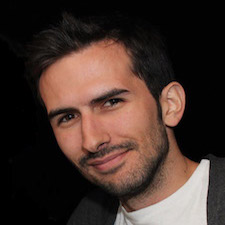
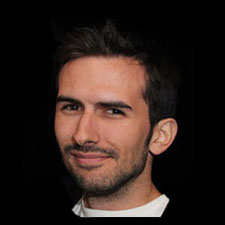
final version

diff --git a/index.html b/index.html
@@ -93,7 +93,7 @@
             <div class="row">
                 <div class="col-lg-12 text-center">
                     <h2 class="section-heading">Services</h2>
-                    <h3 class="section-subheading text-muted">zoph.io vous accompagne dans tous vos projets d'infrastructure Cloud, vous trouvez ci-dessous le détail des services proposés :</h3>
+                    <h3 class="section-subheading text-muted">zoph.io vous accompagne dans tous vos projets d'infrastructure Cloud</h3>
                 </div>
             </div>
             <div class="row text-center">
@@ -103,7 +103,8 @@
                         <i class="fa fa-cloud fa-stack-1x fa-inverse"></i>
                     </span>
                     <h4 class="service-heading">Architecture</h4>
-                    <p class="text-muted">Design et implémentation d'Architecture Cloud. Spécialisé sur les technologies Amazon Web Services (AWS) (Certifié : AWS Solutions Architect)</p>
+                    <p class="text-muted">Design et implémentation d'Architecture Cloud. Spécialisé sur les technologies Amazon Web Services</p>
+                    <a href="https://www.certmetrics.com/amazon/public/badge.aspx?i=1&t=c&d=2017-03-06&ci=AWS00230915" target="_blank"><img src="img/aws-badge-small.png" alt="AWS Badge"></a>
                 </div>
                 <div class="col-md-4">
                     <span class="fa-stack fa-4x">
@@ -119,7 +120,7 @@
                         <i class="fa fa-rocket fa-stack-1x fa-inverse"></i>
                     </span>
                     <h4 class="service-heading">Conseil et Stratégie</h4>
-                    <p class="text-muted">Startup, TPE, PME zoph.io vous guide dans toutes les étapes de vos projets et réflexions d'infrastructure Cloud</p>
+                    <p class="text-muted">Startups, TPE, PME, nous vous guidons dans toutes les étapes de vos projets et réflexions d'infrastructure Cloud</p>
                 </div>
             </div>
               <div class="row text-center">
@@ -129,7 +130,7 @@
                         <i class="fa fa-wifi fa-stack-1x fa-inverse"></i>
                     </span>
                     <h4 class="service-heading">Réseaux</h4>
-                    <p class="text-muted">Mise en œuvre de solutions Réseaux : Wifi/3G/4G, réseau d'entreprise (LAN/WAN/SDWAN), refonte réseaux</p>
+                    <p class="text-muted">Mise en œuvre de solutions réseaux<br />Wifi, 4G, LAN/WAN, VPN</p>
                 </div>
                 <div class="col-md-4">
                     <span class="fa-stack fa-4x">
@@ -137,15 +138,15 @@
                         <i class="fa fa-lock fa-stack-1x fa-inverse"></i>
                     </span>
                     <h4 class="service-heading">Sécurisation des données</h4>
-                    <p class="text-muted">Sauvegardes, Plan de Reprise d'Activité (PRA), Bonnes pratiques de sécurisation et stockage des données d'entreprise</p>
+                    <p class="text-muted">Sauvegardes, Plan de Reprise d'Activité (PRA), bonnes pratiques de sécurisation et stockage des données</p>
                 </div>
                 <div class="col-md-4">
                     <span class="fa-stack fa-4x">
                         <i class="fa fa-circle fa-stack-2x text-primary"></i>
                         <i class="fa fa-group fa-stack-1x fa-inverse"></i>
                     </span>
-                    <h4 class="service-heading">Formations</h4>
-                    <p class="text-muted">Ateliers de formations pour vos équipes, Formations individuelles, Coach DevOps</p>
+                    <h4 class="service-heading">Formation</h4>
+                    <p class="text-muted">Ateliers de formations pour vos équipes, Formations individuelles, Mentoring</p>
                 </div>
             </div>
         </div>
@@ -157,12 +158,25 @@
             <div class="row">
                 <div class="col-lg-12 text-center">
                     <h2 class="section-heading">à propos</h2>
-                    <h3 class="section-subheading text-muted">Sous le régime de la micro-entreprise, zoph.io est spécialisée dans le domaine du Cloud Computing, et plus particulièrement AWS.<br /> Fort de 12 ans d'expérience dans le domaine des Infrastructures IT je mets aujourd'hui mes compétences au service des jeunes pousses du net, Startups et PME qui souhaitent lancer rapidement leurs offres et services via les technologies Cloud. Vous trouverez ci-dessous mon parcours professionnel</h3>
+                    <h3 class="section-subheading text-muted">Sous le régime de la micro-entreprise, zoph.io est spécialisé dans le domaine du Cloud Computing, et plus particulièrement AWS<br /> </h3>
                 </div>
             </div>
             <div class="row">
                 <div class="col-lg-12">
                     <ul class="timeline">
+                        <li class="timeline-inverted">
+                            <div class="timeline-image">
+                                <img class="img-circle img-responsive" src="img/team/1.jpg" alt="Me">
+                            </div>
+                            <div class="timeline-panel">
+                                <div class="timeline-heading">
+                                    <h4 class="subheading">Victor GRENU</h4>
+                                </div>
+                                <div class="timeline-body">
+                                    <p class="text-muted">Fort de 12 ans d'expérience dans le domaine des Infrastructures IT je mets aujourd'hui mes compétences au service des jeunes pousses du net, startups et PME qui souhaitent lancer rapidement leurs offres et services via les technologies Cloud.</p>
+                                </div>
+                            </div>
+                        </li>
                         <li>
                             <div class="timeline-image">
                                 <img class="img-circle img-responsive" src="img/about/1.jpg" alt="Saint-Gobain">
@@ -173,7 +187,7 @@
                                     <h4 class="subheading">Saint-Gobain Desjonquères</h4>
                                 </div>
                                 <div class="timeline-body">
-                                    <p class="text-muted">Leader mondial dans la production de flacons en verre pour les industries de la parfumerie, de la cosmétique et de la pharmacie. J'y ai d'abord eu un rôle d'Administrateur puis d'Ingénieur Système. On m'a ensuite donné la responsabilité de projets d'intégration et d'exploitation de solutions Microsoft et Unix<br />Durant la dernière année, j'ai eu le poste de RSSI : Mise en place de solutions de sécurité, politique sécurité, Pentest, Audits, Hardening</p>
+                                    <p class="text-muted">Leader mondial dans la production de flacons en verre pour les industries de la parfumerie et de la pharmacie. J'ai eu la responsabilité de projets d'intégration et d'exploitation de solutions Cloud Microsoft et Unix ainsi que la mise en place de solutions de sécurité, politique sécurité, Pentest, Audits, Hardening des Infrastructures.</p>
                                 </div>
                             </div>
                         </li>
@@ -187,7 +201,7 @@
                                     <h4 class="subheading">Microsoft</h4>
                                 </div>
                                 <div class="timeline-body">
-                                    <p class="text-muted">Au sein du Campus de Microsoft France, dans la division Support Premier, j'étais référent technique sur les technologies Microsoft auprès de clients du secteur public : MinDéf, CNAMTS, CNAV, CEA, Mairie de Paris, OCDE, Pôle Emploi. J'avais pour mission le suivi et l'escalade des dossiers support, la gestion de crises, les demandes au groupe produit (Redmond) ainsi que le pilotage de comptes : propositions commerciales, renouvellement des contrats et marchés publics, suivi des projets de déploiement Azure et Office 365, ainsi que le suivi de la satisfaction des clients</p>
+                                    <p class="text-muted">Au sein du Campus de Microsoft France, dans la division Support Premier, j'ai exercé la fonction de Service Delivery Manager auprès de clients grands comptes du secteur public. Avec des projets de déploiement à grande échelle de solutions Microsoft: Cloud et On-Premise</p>
                                 </div>
                             </div>
                         </li>
@@ -201,7 +215,7 @@
                                     <h4 class="subheading">STVA</h4>
                                 </div>
                                 <div class="timeline-body">
-                                    <p class="text-muted">En prestation pour l'ESN Anetys, j'y ai occupé le poste de Responsable d'Exploitation, puis Architecte IT avec des projets importants comme la mise place de solutions Cloud sur AWS: EC2, EBS, S3/Glacier, ainsi que le changement de la suite collaborative vers Office 365, la migration de la plateforme Citrix XenApp. J'avais également la responsabilité d'une équipe de trois administrateurs systèmes</p>
+                                    <p class="text-muted">En prestation pour l'ESN Anetys, j'y ai occupé le poste de Responsable d'Exploitation, puis Architecte IT avec des projets importants comme la mise place de solutions Cloud sur AWS: EC2, EBS, S3/Glacier, ainsi que le changement de la suite collaborative vers Office 365, la migration de la plateforme Citrix XenApp.</p>
                                 </div>
                             </div>
                         </li>
@@ -213,9 +227,6 @@
                                 <div class="timeline-heading">
                                     <h4>Février 2017</h4>
                                     <h4 class="subheading">Création de zoph.io</h4>
-                                </div>
-                                <div class="timeline-body">
-                                    <p class="text-muted">En Février 2017, je décide de lancer mon projet entrepreneurial en parallèle de mon activité via une micro-entreprise afin d'aider de jeunes entreprises et PME à bien démarrer leurs réflexions, et migrations vers ces technologies Cloud</p>
                                 </div>
                             </div>
                         </li>
@@ -252,17 +263,17 @@
             <div class="row">
                 <div class="col-md-3 col-sm-6">
                     <a href="https://www.saint-gobain.com/" target="_blank">
-                        <img src="img/logos/sg.jpg" class="img-responsive img-centered" alt="">
+                        <img src="img/logos/sg.jpg" class="img-responsive img-centered" alt="Saint-Gobain">
                     </a>
                 </div>
                 <div class="col-md-3 col-sm-6">
                     <a href="https://www.microsoft.com" target="_blank">
-                        <img src="img/logos/microsoft.jpg" class="img-responsive img-centered" alt="">
+                        <img src="img/logos/microsoft.jpg" class="img-responsive img-centered" alt="Microsoft">
                     </a>
                 </div>
                 <div class="col-md-3 col-sm-6">
                     <a href="http://www.stva.com" target="_blank">
-                        <img src="img/logos/stva.jpg" class="img-responsive img-centered" alt="">
+                        <img src="img/logos/stva.jpg" class="img-responsive img-centered" alt="STVA">
                     </a>
                 </div>
             </div>
@@ -319,7 +330,7 @@
         <div class="container">
             <div class="row">
                 <div class="col-md-4">
-                    <span class="copyright">Copyright &copy; zoph.io - Hébergé sur AWS S3</span>
+                    <span class="copyright">Copyright &copy; zoph.io - Hébergé sur AWS</span>
                 </div>
                 <div class="col-md-4">
                     <ul class="list-inline social-buttons">
@@ -327,11 +338,13 @@
                         </li>
                         <li><a href="https://www.linkedin.com/in/grenuv/" target="_blank"><i class="fa fa-linkedin"></i></a>
                         </li>
+                        <li><a href="https://github.com/zoph-io" target="_blank"><i class="fa fa-github"></i></a>
+                        </li>
                     </ul>
                 </div>
                 <div class="col-md-4">
                     <ul class="list-inline quicklinks">
-                        <li>hello@zoph.io
+                        <li><a href="mailto:hello@zoph.io">hello@zoph.io</a>
                         </li>
                     </ul>
                 </div>
